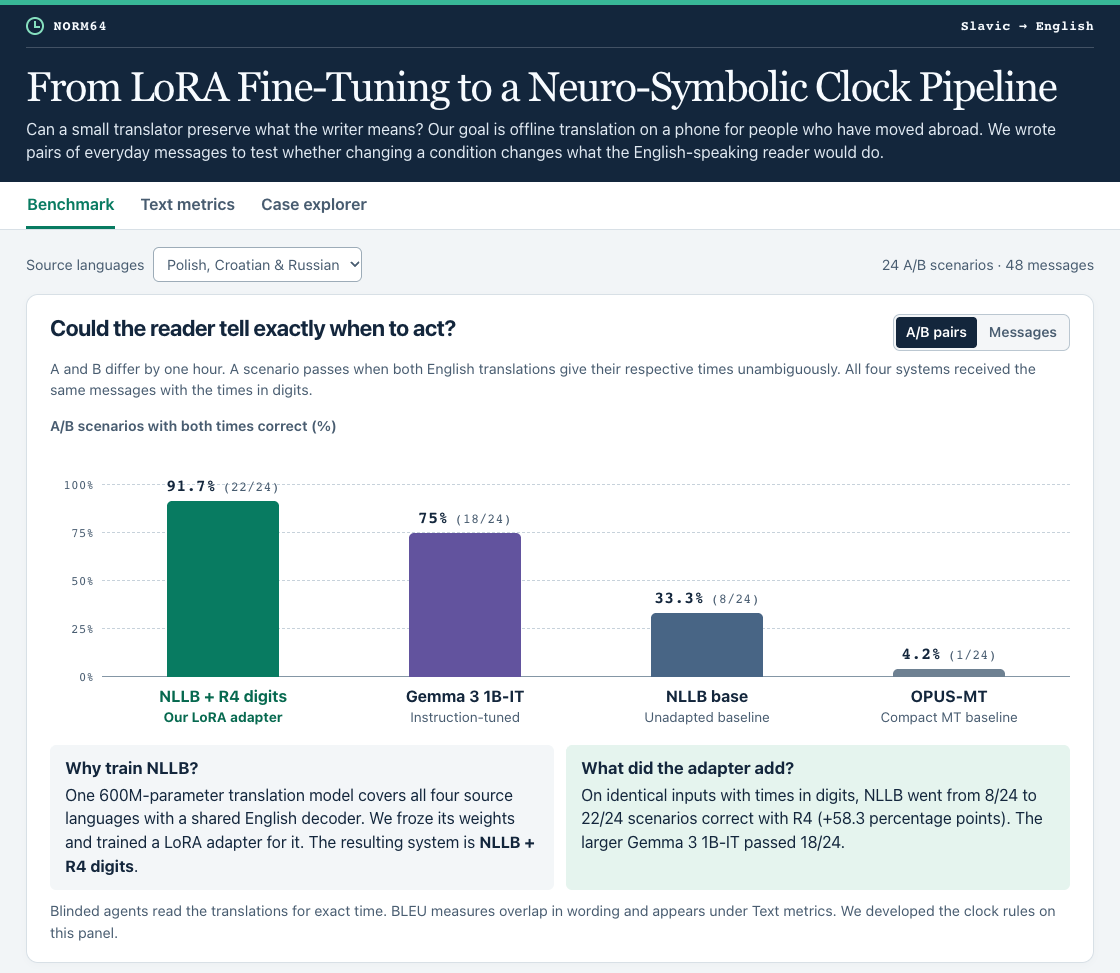
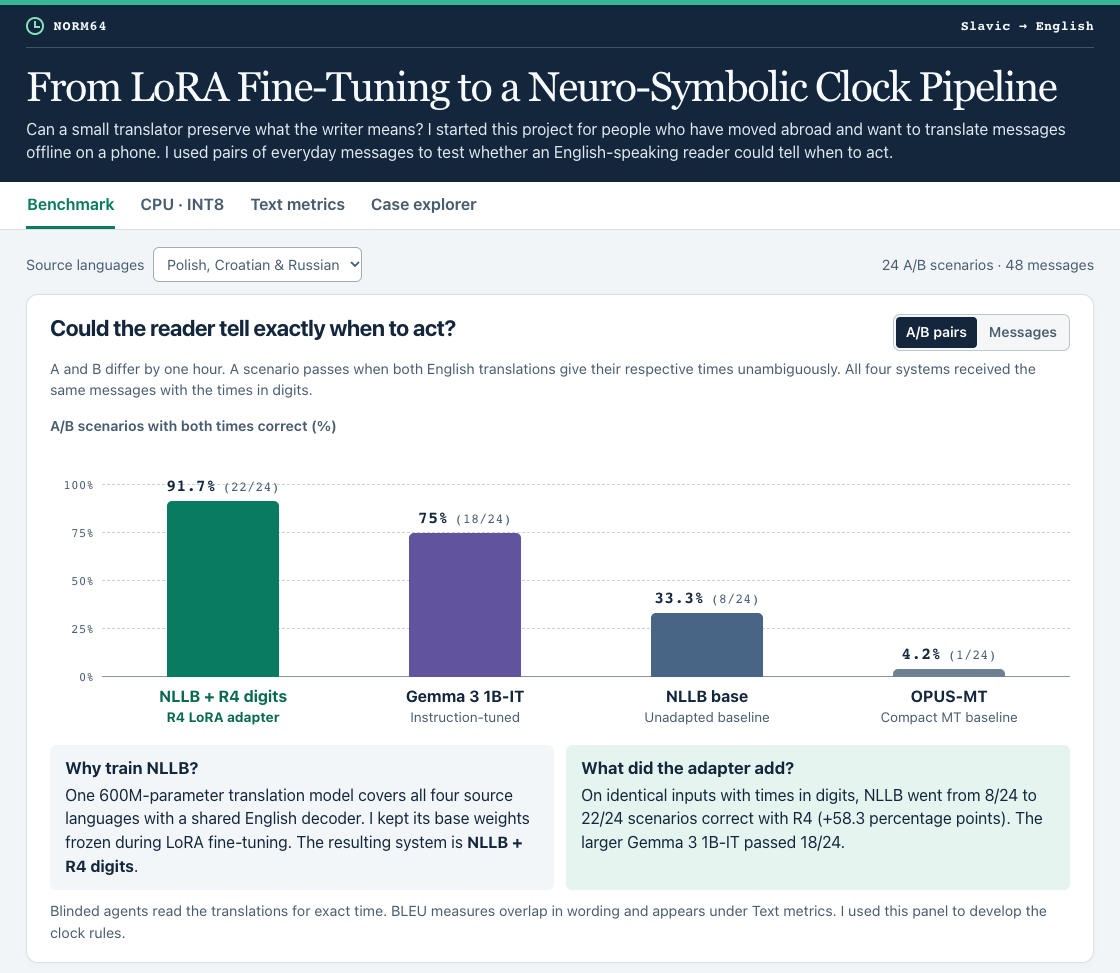
Highlight the measured CPU trade-off and clarify dashboard authorship

diff --git a/docs/index.html b/docs/index.html
@@ -93,7 +93,7 @@ footer{margin:18px 0 0;font-size:.87rem;color:var(--muted)}
 <header><div class="wrap">
 <div class="mast"><span class="brand"><span class="mark" aria-hidden="true"></span>NORM64</span><span>Slavic → English</span></div>
 <h1>From LoRA Fine-Tuning to a Neuro-Symbolic Clock Pipeline</h1>
-<p>Can a small translator preserve what the writer means? Our goal is offline translation on a phone for people who have moved abroad. We wrote pairs of everyday messages to test whether changing a condition changes what the English-speaking reader would do.</p>
+<p>Can a small translator preserve what the writer means? I started this project for people who have moved abroad and want to translate messages offline on a phone. I used pairs of everyday messages to test whether an English-speaking reader could tell when to act.</p>
 </div></header>
 <div class="nav-shell"><nav class="wrap" aria-label="Research views">
 <button type="button" data-view="benchmark" aria-pressed="true">Benchmark</button>
@@ -118,7 +118,7 @@ footer{margin:18px 0 0;font-size:.87rem;color:var(--muted)}
 <div class="chart-grid" aria-hidden="true"><span style="--tick:0%"><i>0%</i></span><span style="--tick:25%"><i>25%</i></span><span style="--tick:50%"><i>50%</i></span><span style="--tick:75%"><i>75%</i></span><span style="--tick:100%"><i>100%</i></span></div>
 <div class="chart-columns" id="bars" role="list"></div></div>
 <div class="study-notes">
-<section><h3>Why train NLLB?</h3><p>One 600M-parameter translation model covers all four source languages with a shared English decoder. We froze its weights and trained a LoRA adapter for it. The resulting system is <strong>NLLB + R4 digits</strong>.</p></section>
+<section><h3>Why train NLLB?</h3><p>One 600M-parameter translation model covers all four source languages with a shared English decoder. I kept its base weights frozen during LoRA fine-tuning. The resulting system is <strong>NLLB + R4 digits</strong>.</p></section>
 <section><h3>What did the adapter add?</h3><p id="adapter-result"></p></section>
 </div>
 <p class="scope" id="scope"></p>
@@ -131,7 +131,7 @@ footer{margin:18px 0 0;font-size:.87rem;color:var(--muted)}
 <article class="panel"><div class="panel-head"><h2>Two systems, the same Colab CPU</h2><span class="tag">24 Nov 2026</span></div>
 <p class="subhead">A separate fixed run on an Intel Xeon with two logical CPUs. CTranslate2 4.9.1 · int8_float32 · greedy decoding · batch size 1.</p>
 <p class="scope">A scenario passes only when both A and B preserve the exact clock time. Primary results cover Polish, Croatian and Russian. Ukrainian transfer is reported separately.</p>
-<div id="cpu-results" class="grid cpu-results"></div><p class="note" id="cpu-status" hidden>CPU evidence has not been embedded in this copy.</p></article>
+<div id="cpu-results" class="grid cpu-results"></div><p class="note" id="cpu-status" hidden></p></article>
 <article class="panel"><h2>What these measurements cover</h2><div class="study-notes">
 <section><h3>Latency, memory and package</h3><p>Median and p95 cover all 64 single-message timings, from tokenization through decoding. Memory is peak process RSS in GiB. Package size uses decimal MB and includes the tokenizer.</p></section>
 <section><h3>Transfer and limits</h3><p>Ukrainian uses an explicit normalization rule, with zero Ukrainian fine-tuning pairs. Phone performance remains unmeasured. Exact clock preservation does not establish overall translation quality.</p></section></div>
@@ -221,7 +221,7 @@ function renderBenchmark(rows, arms) {
     ?"A and B differ by one hour. A scenario passes when both English translations give their respective times unambiguously. All four systems received the same messages with the times in digits."
     :"Each message passes if its English translation gives the correct, unambiguous time. All four systems received the same times in digits.";
   byId("axis-title").textContent=pairMode?"A/B scenarios with both times correct (%)":"Individual messages with the exact time correct (%)";
-  const roles={r4_normalized:"Our LoRA adapter",gemma_1b:"Instruction-tuned",nllb_base:"Unadapted baseline",opus:"Compact MT baseline"};
+  const roles={r4_normalized:"R4 LoRA adapter",gemma_1b:"Instruction-tuned",nllb_base:"Unadapted baseline",opus:"Compact MT baseline"};
   byId("bars").replaceChildren(...systems.map(arm=>{
     const pass=arms[arm][numerator],total=arms[arm][den],rate=100*pass/total;
     const column=create("div",undefined,"chart-column");
@@ -246,7 +246,7 @@ function renderBenchmark(rows, arms) {
     " to "+trained+"/"+total+" "+unit+" correct with R4 (+"+gain+" percentage points). The larger Gemma 3 1B-IT passed "+gemma+"/"+total+".";
   byId("scope").textContent=state.group==="uk"
     ?"Ukrainian had zero fine-tuning pairs. This test supplied a Ukrainian source-normalization rule."
-    :"Blinded agents read the translations for exact time. BLEU measures overlap in wording and appears under Text metrics. We developed the clock rules on this panel.";
+    :"Blinded agents read the translations for exact time. BLEU measures overlap in wording and appears under Text metrics. I used this panel to develop the clock rules.";
   const [id,title]=featureCases[state.group],sample=unique(rows.filter(r=>r.id===id),id);
   byId("feature-title").textContent=title;byId("feature-id").textContent=id;
   const source=create("p",undefined,"field"),sourceLabel=create("strong","English reference · ");
@@ -281,7 +281,7 @@ function renderMetrics(arms) {
   byId("scores").replaceChildren(table(["System","Source clock","Messages","BLEU","chrF++","Mean COMET"],rows,[1]));
   byId("scores").querySelector("table").setAttribute("aria-describedby","notation-note");
   byId("notation-note").textContent=notation==="original"
-    ?"¹ We scored COMET only to compare R4 before and after source-time normalization, using the same original source and English reference for both translations."
+    ?"¹ The COMET comparison uses the same original source and English reference to score R4 before and after source-time normalization."
     :"¹ This formatting check used BLEU and chrF++ only. It rewrites a single explicit English AM/PM time as HH:MM while preserving the model’s chosen hour and the reference.";
 }
 function renderExplorer(rows) {
@@ -302,7 +302,12 @@ function renderExplorer(rows) {
 }
 function renderCpuInt8() {
   const evidence=data.cpu_int8,target=byId("cpu-results");target.replaceChildren();
-  byId("cpu-status").hidden=Boolean(evidence);if(!evidence)return;
+  const status=byId("cpu-status");
+  status.hidden=Boolean(evidence);
+  if(!evidence){
+    status.textContent="This copy is missing the CPU benchmark data.";
+    return;
+  }
   const format=(v,scale,digits)=>Number.isFinite(v)?(v/scale).toLocaleString("en",{minimumFractionDigits:digits,maximumFractionDigits:digits}):"—";
   for(const [id,title] of [["nllb_r4","NLLB + R4 digits"],["gemma_1b","Gemma 3 1B-IT"]]){
     const result=evidence.systems?.[id];assert(result,"Missing CPU evidence for "+id+".");

diff --git a/README.md b/README.md
@@ -1,5 +1,7 @@
 # Slavic-to-English translation with small language models
 
+[![CI status on main](https://github.com/Silveroboros-dev/slavic-english-slm/actions/workflows/ci.yml/badge.svg?branch=main)](https://github.com/Silveroboros-dev/slavic-english-slm/actions/workflows/ci.yml?query=branch%3Amain)
+
 <a id="executive-summary"></a>
 
 In a Polish test message, a parent asked whether her daughter could answer a question after class. The English translation asked the teacher to answer. I started this project for people who have moved abroad and need to write messages like this in English. Can a compact translator preserve who should act, when and under what conditions? The goal is offline use on a phone. The training runs took place in Colab.
@@ -8,7 +10,7 @@ I chose **NLLB-200-distilled-600M** because one small translation model covers *
 
 After four rounds of LoRA experiments, I tested the final **NLLB + R4 digits** adapter on 24 clock scenarios in the three training languages. A scenario passed only when blinded agents could recover the exact time in **both** English translations. R4 passed **0/24** with colloquial times. With the same weights and a rule that rewrote each source time in 24-hour digits, it passed **22/24**. On the same normalized inputs, unadapted NLLB passed **8/24**, the larger Gemma 3 1B-IT **18/24**, and OPUS-MT **1/24**. The rules were developed on this panel. [Method and examples](docs/norm64.md)
 
-[![From LoRA Fine-Tuning to a Neuro-Symbolic Clock Pipeline. Percentage of scenarios with both times correct: our NLLB + R4 digits 91.7%, Gemma 75.0%, base NLLB 33.3% and OPUS-MT 4.2%.](docs/norm64-accuracy-columns.png)](https://silveroboros-dev.github.io/slavic-english-slm/)
+[![From LoRA Fine-Tuning to a Neuro-Symbolic Clock Pipeline. Percentage of scenarios with both times correct: NLLB + R4 digits 91.7%, Gemma 75.0%, base NLLB 33.3% and OPUS-MT 4.2%.](docs/norm64-accuracy-columns.png)](https://silveroboros-dev.github.io/slavic-english-slm/)
 
 **[Interactive dashboard](https://silveroboros-dev.github.io/slavic-english-slm/)** · Choose a language, compare the four models, or open the [INT8 comparison on a Colab CPU](https://silveroboros-dev.github.io/slavic-english-slm/#cpu-int8). For offline use, download the [standalone HTML file](https://github.com/Silveroboros-dev/slavic-english-slm/raw/refs/heads/main/docs/index.html) and open it in a browser. [Key research findings](#key-research-findings) · [Benchmark summary](#benchmark-summary) · [Compute, tokens and workflow](#compute-tokens-and-workflow) · [Repository structure](#repository-structure)
 
@@ -17,6 +19,7 @@ After four rounds of LoRA experiments, I tested the final **NLLB + R4 digits** a
 - **An average score can hide a change in meaning.** Across the 48 Polish, Croatian and Russian clock messages, mean COMET moved from 0.79107 to 0.78974 as R4 went from 0/24 to 22/24 complete pairs. Both outputs were scored against the same original source and English reference. [Metric results](results/norm64_text_metrics.csv)
 - **The checker caught a thirteen-hour error.** R4 moved filming nocturnal animals from 00:30 to 1:30 p.m. Gemma gave the correct 00:30. Across all 64 normalized R4 outputs, a separate numeric check flagged both wrong times and accepted all 62 correct ones. It also accepted Gemma’s “around 9:30 PM” for a subtitle test scheduled at exactly 21:30. [Checker audit and translations](docs/norm64.md#what-the-numeric-check-caught)
 - **Training gains depended on the domain.** After 300,000 official pairs, Gemma’s Croatian official-test COMET rose from 0.7792 to 0.8653. On 18 everyday Croatian messages, the confidence interval for the smaller gain included zero. Everyday COMET fell for Polish, Russian and Ukrainian. [Results by language](#what-changed-after-training)
+- **On the same Colab CPU, R4 preserved more clock pairs with less memory.** With both models in INT8, NLLB + R4 digits passed 22/24 Polish, Croatian and Russian pairs and 8/8 Ukrainian pairs. Gemma 3 1B-IT passed 19/24 and 7/8. Median latency was 2.59 vs. 3.96 s per message, peak RAM was 1.47 vs. 2.55 GiB, and the packages occupied 665.7 vs. 1,047.9 MB. [CPU benchmark](https://silveroboros-dev.github.io/slavic-english-slm/#cpu-int8)
 
 ## Run the notebooks
 
@@ -40,7 +43,7 @@ Open any notebook in Colab, select a CPU runtime and choose **Runtime → Run al
 
 The NLLB pilot used document-level splits with 100,000 training pairs, 1,000 validation pairs and 1,000 test pairs per training language. The full Gemma run used the same training quotas after replacing 575 corrupted Croatian records and one malformed Russian table. The acquisition notebook lists the archive URLs and SHA-256 checksums. The [original pilot builder and verifier](pipeline/) read archives obtained from their publishers.
 
-We also designed [36 synthetic everyday scenarios](data/b01_contrasts.jsonl). Each contains a Polish, Croatian or Russian message in two variants, English reference translations, one question and opposite expected answers. The 72 variants were reviewed for their intended reading. In the matched Gemma experiment, they replaced 72 of 384 official pairs in one arm. Both arms ran for 48 updates. A separate set of 72 historical messages was used for evaluation. The 300,000-pair Gemma run used official documents only.
+The study also includes [36 synthetic everyday scenarios](data/b01_contrasts.jsonl). Each contains a Polish, Croatian or Russian message in two variants, English reference translations, one question and opposite expected answers. The 72 variants were reviewed for their intended reading. In the matched Gemma experiment, they replaced 72 of 384 official pairs in one arm. Both arms ran for 48 updates. A separate set of 72 historical messages was used for evaluation. The 300,000-pair Gemma run used official documents only.
 
 ## What changed after training
 
@@ -53,7 +56,7 @@ Gemma completed one epoch on a single NVIDIA L4 in 2 h 11 min 29 s of training t
 | Russian | 0.7723 → 0.7452 | 0.8304 → 0.8548 |
 | Ukrainian | 0.7886 → 0.7569 | 0.8280 → 0.8257 |
 
-The last column uses official documents for the three training languages. All three improved, with the largest gains on the Croatian official test across all three metrics (+17.86 BLEU, +13.24 chrF++ and +0.0861 COMET). For Ukrainian, we scored 32 general-domain sentences from the FLORES-200 benchmark. BLEU on those same sentences rose from 27.30 at baseline to 28.22 after 50,000 training pairs, then finished at 26.80 after 300,000. Final chrF++ (54.31 → 51.60) and COMET (0.8280 → 0.8257) also fell below baseline. [FLORES-200 dataset](https://huggingface.co/datasets/facebook/flores) · [Scores at each checkpoint](results/metrics.csv)
+The last column uses official documents for the three training languages. All three improved, with the largest gains on the Croatian official test across all three metrics (+17.86 BLEU, +13.24 chrF++ and +0.0861 COMET). The Ukrainian test used 32 general-domain sentences from the FLORES-200 benchmark. BLEU on those same sentences rose from 27.30 at baseline to 28.22 after 50,000 training pairs, then finished at 26.80 after 300,000. Final chrF++ (54.31 → 51.60) and COMET (0.8280 → 0.8257) also fell below baseline. [FLORES-200 dataset](https://huggingface.co/datasets/facebook/flores) · [Scores at each checkpoint](results/metrics.csv)
 
 Everyday COMET rose only for Croatian, and its paired 95% interval for the change included zero. The [intervals](results/everyday_comet_intervals.csv) use 2,000 paired resamples of 18 messages per language from one training run. The separate 16-case stress set uses questions about the action a reader would take. It has no reference-based scores. The next test is to ask independent readers what they would do in new situations and compare their answers with the writers’ intentions. Phone performance also awaits measurement.
 
@@ -61,9 +64,9 @@ The [full Gemma results](results/metrics.csv) give scores for the base model and
 
 ## Can a recipient tell the exact time?
 
-Each of 32 authored scenarios has two messages about the same event with different start times. A scenario passes when both English translations preserve their respective times unambiguously. We asked two questions.
+Each of 32 authored scenarios has two messages about the same event with different start times. A scenario passes when both English translations preserve their respective times unambiguously. I used these pairs to answer two questions.
 
-1. **What does writing the time in digits add?** With colloquial half-hour expressions in the written messages, both base NLLB and NLLB with the R4 digits adapter passed **0/24** Polish, Croatian and Russian scenarios. After converting the time and its daypart to 24-hour digits, base NLLB passed **8/24** and R4 passed **22/24**. On the separate Ukrainian set, the corresponding changes were **0/8 to 4/8** and **0/8 to 8/8**. We kept each model's weights fixed between the two input formats.
+1. **What does writing the time in digits add?** With colloquial half-hour expressions in the written messages, both base NLLB and NLLB with the R4 digits adapter passed **0/24** Polish, Croatian and Russian scenarios. After converting the time and its daypart to 24-hour digits, base NLLB passed **8/24** and R4 passed **22/24**. On the separate Ukrainian set, the corresponding changes were **0/8 to 4/8** and **0/8 to 8/8**. Each model used the same weights for both input formats.
 2. **What does the model add once the time is explicit?** All four systems received the same 64 normalized messages and used greedy decoding. The table counts scenarios in which an English reader could recover the exact time from both A and B, using frozen, blinded agent readings.
 
 ### Benchmark summary
@@ -78,7 +81,7 @@ Each entry counts complete A/B scenarios after source normalization. Each langua
 | **Three training languages** | **8/24** | **22/24** | **1/24** | **18/24** |
 | Ukrainian, separate | 4/8 | 8/8 | 0/8 | 7/8 |
 
-Ukrainian contributed zero fine-tuning pairs. We supplied a Ukrainian normalization rule for this test. All four rules were developed for the constructions on this previously examined panel. On one Polish pair, R4 preserved both times but translated the milk tanker's unloading hose as a “snake”.
+Ukrainian contributed zero fine-tuning pairs. The test used a Ukrainian normalization rule. All four rules were developed for the constructions on this previously examined panel. On one Polish pair, R4 preserved both times but translated the milk tanker's unloading hose as a “snake”.
 
 From the repository root, replay the counts and the numeric checker with Python’s standard library.
 
